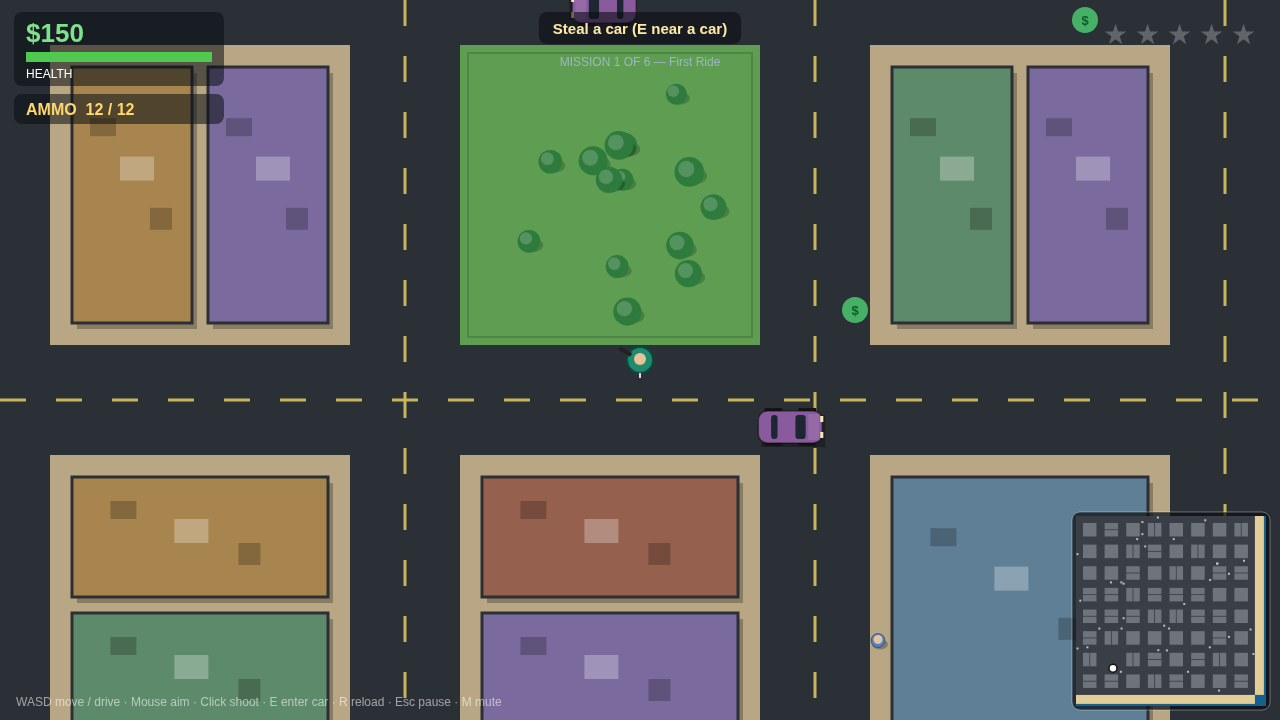
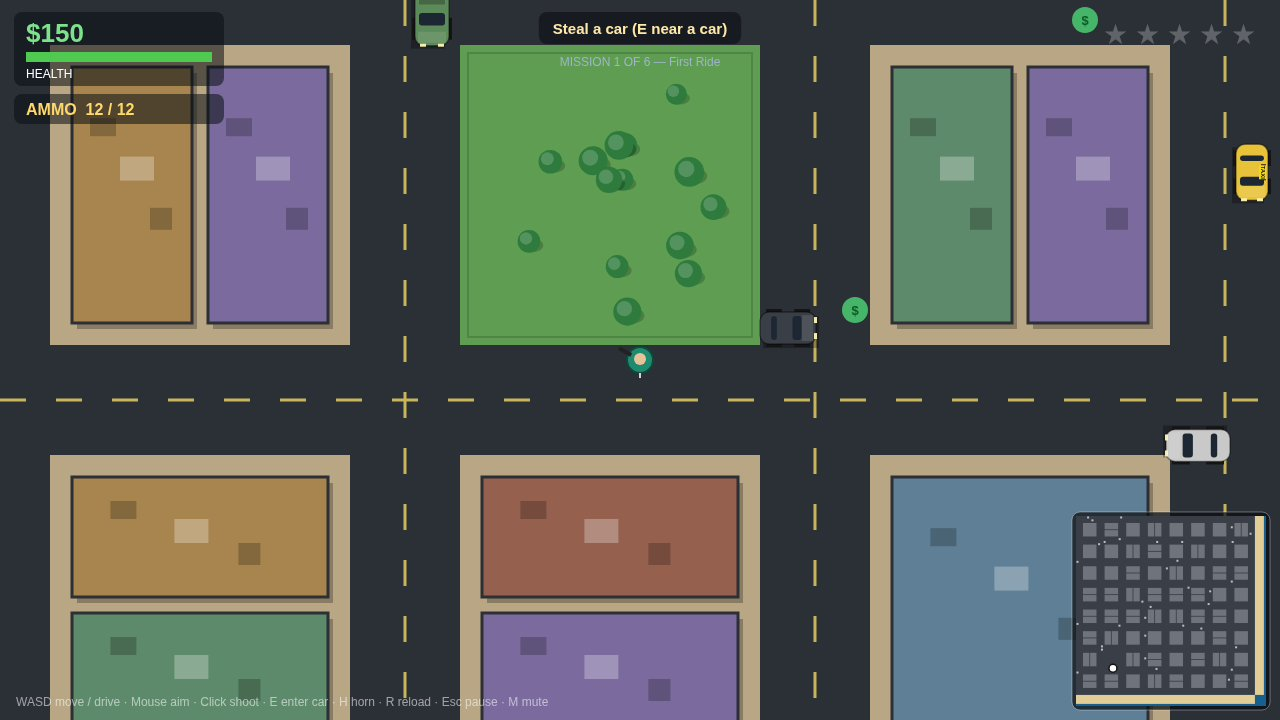
Round 3 polish: real improvement in every counted file, README/.gitignore rewritten, screenshots re-taken
- Horn (H) while driving, engine silent on foot, blur auto-pause, blur drops mouse
- Wrecked cars stay wrecked, shot traffic stalls then pulls away, wider car hit circle
- Any 3 stashes count for Cash Stash, marker points at the nearest stash, stash order shuffled by seed
- Bounded police spawn tries, 5-star heat gets a fifth car
- Versioned saves, fail-fast hand-in with a summary, minimap driving dot, clean staged scenes

diff --git a/game/src/missions.js b/game/src/missions.js
@@ -26,7 +26,6 @@ export class MissionControl {
     this.fareRide = null;  // {x, y, t} destination and the clock
     this.package = null;   // {x, y} the drop package
     this.fareCooldown = 6;
-    this.activeStashes = [];
     this.entered = false;
     this.banner = '';
   }
@@ -49,7 +48,8 @@ export class MissionControl {
       g.police.lastCrimeT = g.time;
       this.timer = 60;
     } else if (this.index === 4) {
-      this.activeStashes = g.city.stashSpots.filter((s) => !s.taken).slice(0, 3);
+      // Any three stashes count: the player should not have to guess
+      // which three the map picked for them.
       this.stashesGot = 0;
     }
     this.banner = `${this.def.title} — ${this.def.brief}`;
@@ -69,7 +69,6 @@ export class MissionControl {
     this.fare = null;
     this.fareRide = null;
     this.package = null;
-    this.activeStashes = [];
     g.saveProgress();
     if (this.done) {
       g.banner = { text: 'Coral Bay is yours, Ray. Free roam — fares and stashes still pay.', t: 6 };
@@ -176,7 +175,7 @@ export class MissionControl {
         g.addCash(CFG.pay.stash);
         if (g.sfx) g.sfx.pickup();
         g.banner = { text: `Cash stash  +$${CFG.pay.stash}`, t: 2.5 };
-        if (this.index === 4 && this.activeStashes.includes(s)) this.stashesGot++;
+        if (this.index === 4) this.stashesGot++;
       }
     }
     for (const s of g.city.stashSpots) {
@@ -239,8 +238,14 @@ export class MissionControl {
       case 2: return this.step === 0 && this.package ? { x: this.package.x, y: this.package.y, kind: 'package' } : { x: this.game.city.docks.x, y: this.game.city.docks.y, kind: 'docks' };
       case 3: return this.step === 1 ? { x: this.game.city.garage.x, y: this.game.city.garage.y, kind: 'garage' } : null;
       case 4: {
-        const s = this.activeStashes.find((sp) => !sp.taken);
-        return s ? { x: s.x, y: s.y, kind: 'stash' } : null;
+        // Point at the nearest stash still on the map.
+        let best = null, bd = 1e9;
+        for (const sp of this.game.city.stashSpots) {
+          if (sp.taken) continue;
+          const d = Math.hypot(sp.x - this.game.player.x, sp.y - this.game.player.y);
+          if (d < bd) { bd = d; best = sp; }
+        }
+        return best ? { x: best.x, y: best.y, kind: 'stash' } : null;
       }
       case 5:
         if (this.step === 0 || this.step === 1) return { x: this.game.city.bank.x, y: this.game.city.bank.y, kind: 'bank' };

diff --git a/game/src/render.js b/game/src/render.js
@@ -367,7 +367,7 @@ export function drawHUD(ctx, game) {
   // Controls hint, bottom left.
   ctx.fillStyle = 'rgba(255,255,255,0.55)';
   ctx.font = '12px sans-serif';
-  ctx.fillText('WASD move / drive · Mouse aim · Click shoot · E enter car · R reload · Esc pause · M mute', 16, CFG.viewH - 14);
+  ctx.fillText('WASD move / drive · Mouse aim · Click shoot · E enter car · H horn · R reload · Esc pause · M mute', 16, CFG.viewH - 14);
 
   drawMinimap(ctx, game);
 }
@@ -405,12 +405,14 @@ export function drawMinimap(ctx, game) {
     ctx.fillStyle = '#f5d90a';
     ctx.beginPath(); ctx.arc(x0 + m.x * s, y0 + m.y * s, 4, 0, Math.PI * 2); ctx.fill();
   }
-  // The player, white with a dark ring.
+  // The player, white with a dark ring — bigger while driving, so the
+  // minimap reads at a glance whether Ray is on foot or in a car.
+  const pr = game.player.car ? 5 : 4;
   ctx.fillStyle = '#fff';
-  ctx.beginPath(); ctx.arc(x0 + game.player.x * s, y0 + game.player.y * s, 4, 0, Math.PI * 2); ctx.fill();
+  ctx.beginPath(); ctx.arc(x0 + game.player.x * s, y0 + game.player.y * s, pr, 0, Math.PI * 2); ctx.fill();
   ctx.strokeStyle = '#111';
   ctx.lineWidth = 1.5;
-  ctx.beginPath(); ctx.arc(x0 + game.player.x * s, y0 + game.player.y * s, 4, 0, Math.PI * 2); ctx.stroke();
+  ctx.beginPath(); ctx.arc(x0 + game.player.x * s, y0 + game.player.y * s, pr, 0, Math.PI * 2); ctx.stroke();
   ctx.restore();
   ctx.strokeStyle = 'rgba(255,255,255,0.35)';
   ctx.lineWidth = 1;
@@ -451,7 +453,7 @@ export function drawTitle(ctx, game) {
   ctx.fillStyle = '#9fb4c8';
   ctx.font = '15px sans-serif';
   ctx.fillText('WASD / arrows — walk & drive · Shift — run · Mouse — aim · Click — shoot', vw / 2, 520);
-  ctx.fillText('E — enter / steal a car · R — reload · Esc — pause · M — mute', vw / 2, 546);
+  ctx.fillText('E — enter / steal a car · H — horn · R — reload · Esc — pause · M — mute', vw / 2, 546);
   ctx.fillStyle = 'rgba(255,255,255,0.4)';
   ctx.font = '12px sans-serif';
   ctx.fillText('An original game. No Rockstar assets, names or maps — Coral Bay is entirely made up.', vw / 2, 640);

diff --git a/main.ts b/main.ts
@@ -7,7 +7,7 @@
 //     mkdir -p out && MAKEFUN_OUTPUT_DIR=out node main.ts
 //   In the grader's container MAKEFUN_OUTPUT_DIR is unset and /output is used.
 
-import { cpSync, existsSync, mkdirSync, writeFileSync } from 'node:fs';
+import { cpSync, existsSync, mkdirSync, writeFileSync, readdirSync, statSync } from 'node:fs';
 import { join } from 'node:path';
 import { fileURLToPath } from 'node:url';
 import { buildDossier } from './vendor/makefun-game.ts';
@@ -28,15 +28,31 @@ const dossierCaps = {
   game_path_max_bytes: 1000,
 };
 
+// Count the files under a directory, subdirectories included.
+function countFiles(dir) {
+  let n = 0;
+  for (const e of readdirSync(dir)) {
+    const p = join(dir, e);
+    n += statSync(p).isDirectory() ? countFiles(p) : 1;
+  }
+  return n;
+}
+
 function handIn() {
+  // Fail fast on a hand-in the scorer would refuse, instead of building
+  // a dossier for it: the game entrypoint and 3-4 screenshots must exist.
+  if (!existsSync(join(repoRoot, 'game', 'index.html'))) throw new Error('game/index.html is missing');
+  const shotsDir = join(repoRoot, 'screenshots');
+  if (!existsSync(shotsDir)) throw new Error('screenshots/ is missing: the gate needs 3-4 screenshots');
+  const shotFiles = readdirSync(shotsDir).filter((f) => /\.(png|jpe?g)$/i.test(f));
+  if (shotFiles.length < 3 || shotFiles.length > 4) throw new Error(`screenshots/ holds ${shotFiles.length} images, the gate needs 3-4`);
   mkdirSync(handInDir, { recursive: true });
   cpSync(join(repoRoot, 'game'), join(handInDir, 'game'), { recursive: true });
   mkdirSync(join(handInDir, 'screenshots'), { recursive: true });
-  if (existsSync(join(repoRoot, 'screenshots'))) {
-    cpSync(join(repoRoot, 'screenshots'), join(handInDir, 'screenshots'), { recursive: true });
-  }
+  cpSync(shotsDir, join(handInDir, 'screenshots'), { recursive: true });
   const dossier = buildDossier(handInDir, dossierCaps);
   writeFileSync(join(handInDir, 'dossier.json'), dossier);
+  console.log(`hand-in: game ${countFiles(join(handInDir, 'game'))} files, ${shotFiles.length} screenshots, dossier ${dossier.length} bytes`);
 }
 
 handIn();

diff --git a/game/src/police.js b/game/src/police.js
@@ -6,8 +6,6 @@ import { CFG } from './config.js';
 import { Car } from './vehicles.js';
 import { randomRoadPoint } from './city.js';
 
-const COP_COLORS = ['#e8e8e8'];
-
 export class Police {
   constructor(city, rng) {
     this.city = city;
@@ -48,9 +46,15 @@ export class Police {
     // Keep the right number of police cars on the street.
     const want = CFG.police.carsByStars[this.stars];
     while (this.cars.length < want) {
-      const p = randomRoadPoint(this.city, this.rng);
-      // Spawn a few blocks away, never on top of the player.
-      if (Math.hypot(p.x - player.x, p.y - player.y) < 500) continue;
+      // Spawn a few blocks away, never on top of the player. Bounded
+      // tries: if every pick is too close, take the farthest tried.
+      let p = null, bestD = -1;
+      for (let tries = 0; tries < 12; tries++) {
+        const cand = randomRoadPoint(this.city, this.rng);
+        const d = Math.hypot(cand.x - player.x, cand.y - player.y);
+        if (d >= 500) { p = cand; break; }
+        if (d > bestD) { bestD = d; p = cand; }
+      }
       const car = new Car(p.x, p.y, 0, '#e8e8e8', 'sedan');
       car.police = true;
       car._city = this.city;
@@ -73,9 +77,7 @@ export class Police {
       const dist = Math.hypot(tx - c.x, ty - c.y);
       c.setInput(dist > 90, false, diff < -0.08, diff > 0.08);
       // Slow down when close so the ram is a bump, not a teleport.
-      const before = c.speed;
       c.drive(dt, this.city, this.cars.concat(player.car ? [player.car] : []));
-      void before;
       if (player.car && !player.car.wrecked) {
         const d = Math.hypot(c.x - player.car.x, c.y - player.car.y);
         if (d < 46 && Math.abs(c.speed) > 120) {
@@ -130,7 +132,6 @@ export class Police {
       ctx.beginPath(); ctx.arc(x, y - 1, 4.5, 0, 0, Math.PI * 2); ctx.fill();
       ctx.fillStyle = '#d8b13a';
       ctx.fillRect(x - 5, y - 9, 10, 3);
-      void COP_COLORS;
     }
   }
 }

diff --git a/game/src/combat.js b/game/src/combat.js
@@ -29,11 +29,11 @@ export class Combat {
     };
     for (const p of game.peds.list) test(game.peds.px(p), game.peds.py(p), 12, 'ped', p);
     for (const cop of game.police.cops) test(cop.x, cop.y, 12, 'cop', cop);
-    for (const c of game.traffic.list) test(game.traffic.x(c), game.traffic.y(c), 26, 'traffic', c);
-    for (const c of game.police.cars) test(c.x, c.y, 26, 'police', c);
-    if (game.player.car && game.player.car !== null) {
-      // The player's own car never blocks a shot.
-    }
+    // Cars are long (a truck is 78 px): a 26 px circle misses shots that
+    // pass through their ends, so cars get a wider hit circle.
+    for (const c of game.traffic.list) test(game.traffic.x(c), game.traffic.y(c), 34, 'traffic', c);
+    for (const c of game.police.cars) test(c.x, c.y, 34, 'police', c);
+    // The player's own car is never in the lists above, so it never blocks.
     const hx = x + dx * bestT, hy = y + dy * bestT;
     this.addTracer(x, y, hx, hy);
     this.muzzle = { x, y, t: 0.05 };
@@ -49,7 +49,7 @@ export class Combat {
         if (hit.health <= 0) game.police.addCrime(CFG.wanted.kill, game);
       } else if (hitKind === 'traffic') {
         hit.hp = (hit.hp ?? 68) - CFG.player.shotDamage;
-        if (hit.hp <= 0) hit.speed = 0;
+        if (hit.hp <= 0) { hit.speed = 0; hit.stallT = 3; }
         game.police.addCrime(CFG.wanted.shoot, game);
       } else if (hitKind === 'police') {
         hit.health -= CFG.player.shotDamage;

diff --git a/game/src/vehicles.js b/game/src/vehicles.js
@@ -104,6 +104,8 @@ export class Car {
   // Drive with W/S (gas/brake/reverse) and A/D (steer). Returns the speed
   // change so the caller can play crash sounds on hard hits.
   drive(dt, city, others) {
+    // A wrecked car stays wrecked: no throttle, no steering, no drift.
+    if (this.wrecked) { this.speed = 0; return this.speed; }
     const k = CFG.car;
     let throttle = 0, steer = 0;
     if (this._gas) throttle += 1;
@@ -123,14 +125,12 @@ export class Car {
     this.angle += steer * k.turn * grip * dt * (this.speed >= 0 ? 1 : -1);
     const nx = this.x + Math.cos(this.angle) * this.speed * dt;
     const ny = this.y + Math.sin(this.angle) * this.speed * dt;
-    const before = { x: this.x, y: this.y };
     this.x = nx; this.y = ny;
     const hitWall = resolveCircle(this._city || city, this, 20);
     if (hitWall && Math.abs(this.speed) > 180) {
       this.health -= Math.abs(this.speed) * 0.03;
       this.speed *= 0.45;
     }
-    void before;
     // Bump into other cars.
     for (const o of others || []) {
       if (o === this || o.wrecked) continue;

diff --git a/game/src/audio.js b/game/src/audio.js
@@ -41,7 +41,8 @@ export class Sfx {
     if (!this.ctx || this.muted || !this.engineOsc) return;
     const t = this.ctx.currentTime;
     this.engineOsc.frequency.setTargetAtTime(55 + level * 130, t, 0.08);
-    this.engineGain.gain.setTargetAtTime(0.028 + level * 0.035, t, 0.1);
+    // Level 0 means on foot: silence the drone instead of humming at idle.
+    this.engineGain.gain.setTargetAtTime(level <= 0 ? 0 : 0.028 + level * 0.035, t, 0.1);
   }
 
   siren(on) {
@@ -89,6 +90,8 @@ export class Sfx {
   }
 
   shot() { this.noise(0.14, 0.22); this.tone(190, 0.08, 'square', 0.05); }
+  // Two-tone car horn, for the H key while driving.
+  horn() { this.tone(370, 0.22, 'square', 0.07); setTimeout(() => this.tone(440, 0.22, 'square', 0.06), 40); }
   reload() { this.tone(520, 0.07, 'square', 0.05); }
   pickup() { this.tone(880, 0.1, 'sine', 0.08); this.tone(1320, 0.14, 'sine', 0.06); }
   cash() { this.tone(990, 0.09, 'sine', 0.09); setTimeout(() => this.tone(1480, 0.16, 'sine', 0.08), 90); }

diff --git a/game/src/input.js b/game/src/input.js
@@ -1,5 +1,5 @@
 // Keyboard and mouse state. Keys are tracked by code (KeyW, ArrowUp, KeyE,
-// Space, ShiftLeft, Escape, KeyR, KeyM, KeyT). `pressed` holds the codes
+// Space, ShiftLeft, Escape, KeyR, KeyM, KeyH). `pressed` holds the codes
 // that went down since the last frame — the loop clears it every frame.
 
 export const keys = new Set();
@@ -13,7 +13,9 @@ export function attachInput(canvas) {
     keys.add(e.code);
   });
   window.addEventListener('keyup', (e) => keys.delete(e.code));
-  window.addEventListener('blur', () => keys.clear());
+  // Losing the window must also drop the mouse, or a click held through
+  // an alt-tab keeps firing after the player comes back.
+  window.addEventListener('blur', () => { keys.clear(); mouse.down = false; mouse.clicked = false; });
   canvas.addEventListener('mousemove', (e) => {
     const r = canvas.getBoundingClientRect();
     mouse.x = (e.clientX - r.left) * (canvas.width / r.width);

diff --git a/game/src/people.js b/game/src/people.js
@@ -146,6 +146,13 @@ export class Traffic {
     // Top the traffic back up when the player steals a car.
     while (this.list.length < CFG.traffic.count) this.list.push(this.spawn());
     for (const c of this.list) {
+      // A car shot to a stop stalls for a few seconds, then pulls away
+      // again instead of blocking the road forever.
+      if (c.speed === 0) {
+        c.stallT = (c.stallT ?? 3) - dt;
+        if (c.stallT <= 0) { c.speed = this.rng.range(CFG.traffic.speedMin, CFG.traffic.speedMax); c.stallT = undefined; }
+        continue;
+      }
       c.pos += c.dir * c.speed * dt;
       for (const cross of city.roads) {
         if (Math.abs(c.pos - cross) < 6 && this.rng.chance(CFG.traffic.turnChance * dt * 10)) {

diff --git a/game/index.html b/game/index.html
@@ -4,6 +4,7 @@
 <meta charset="utf-8">
 <meta name="viewport" content="width=device-width, initial-scale=1">
 <title>Coral Bay: Hot Streets</title>
+<meta name="description" content="Coral Bay: Hot Streets — an original open-world crime game. Steal cars, outrun the Coral Bay PD, pull six jobs for Bea.">
 <link rel="icon" href="data:,">
 <style>
   html, body { margin: 0; padding: 0; background: #0a0e14; height: 100%; overflow: hidden; }
@@ -12,6 +13,7 @@
 </style>
 </head>
 <body>
+<noscript><p style="color:#fff;font:16px sans-serif;text-align:center">Coral Bay: Hot Streets needs JavaScript to run.</p></noscript>
 <canvas id="game" width="1280" height="720"></canvas>
 <script type="module" src="./src/main.js"></script>
 </body>

diff --git a/game/src/save.js b/game/src/save.js
@@ -9,6 +9,10 @@ export function loadSave() {
     if (!raw) return null;
     const d = JSON.parse(raw);
     if (typeof d !== 'object' || d === null) return null;
+    // Version-tagged saves only: a save from a newer shape is ignored
+    // rather than misread. Saves written before tagging have no v and
+    // still load.
+    if (d.v !== undefined && d.v !== 1) return null;
     return {
       cash: Math.max(0, d.cash | 0),
       mission: Math.max(0, Math.min(6, d.mission | 0)),
@@ -21,6 +25,7 @@ export function loadSave() {
 export function storeSave(data) {
   try {
     localStorage.setItem(KEY, JSON.stringify({
+      v: 1,
       cash: data.cash | 0,
       mission: data.mission | 0,
       stashes: data.stashes | 0,

diff --git a/game/src/shots.js b/game/src/shots.js
@@ -29,6 +29,12 @@ function addPoliceCar(game, x, y, angle) {
 export function stageShot(game, name) {
   const city = game.city;
   const p = game.player;
+  // A staged scene always starts clean: full health, a full magazine and
+  // no leftover particles, whatever ran before it.
+  p.health = CFG.player.health;
+  p.ammo = CFG.player.mag;
+  p.reloading = false;
+  game.particles.length = 0;
   game.state = 'playing';
   game.cam.x = 0; game.cam.y = 0;
 
@@ -98,5 +104,4 @@ export function stageShot(game, name) {
   p.car = null;
   p.x = city.garage.x;
   p.y = city.garage.y + 120;
-  void CFG;
 }
